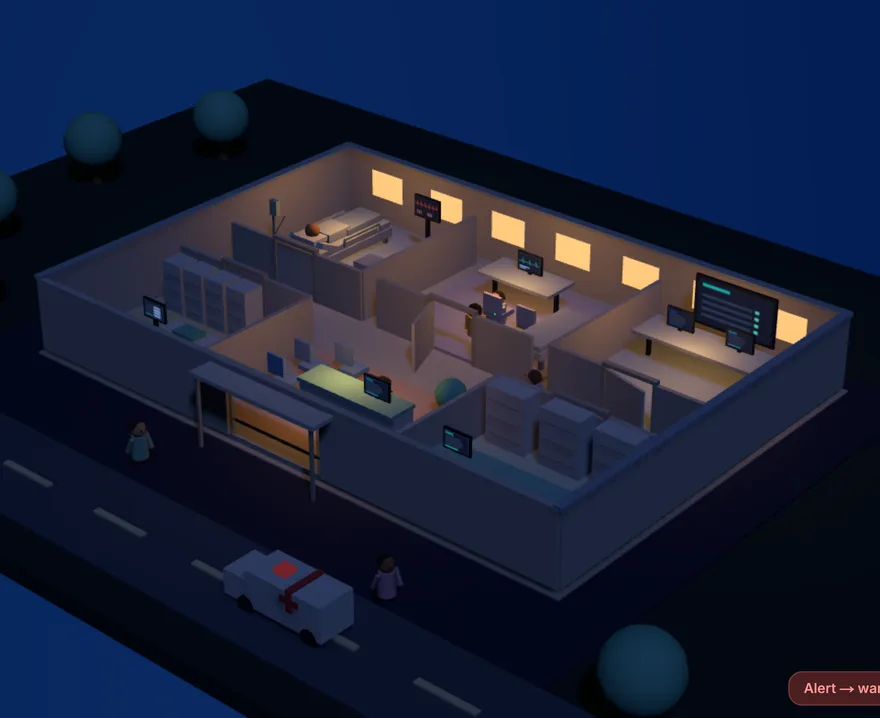
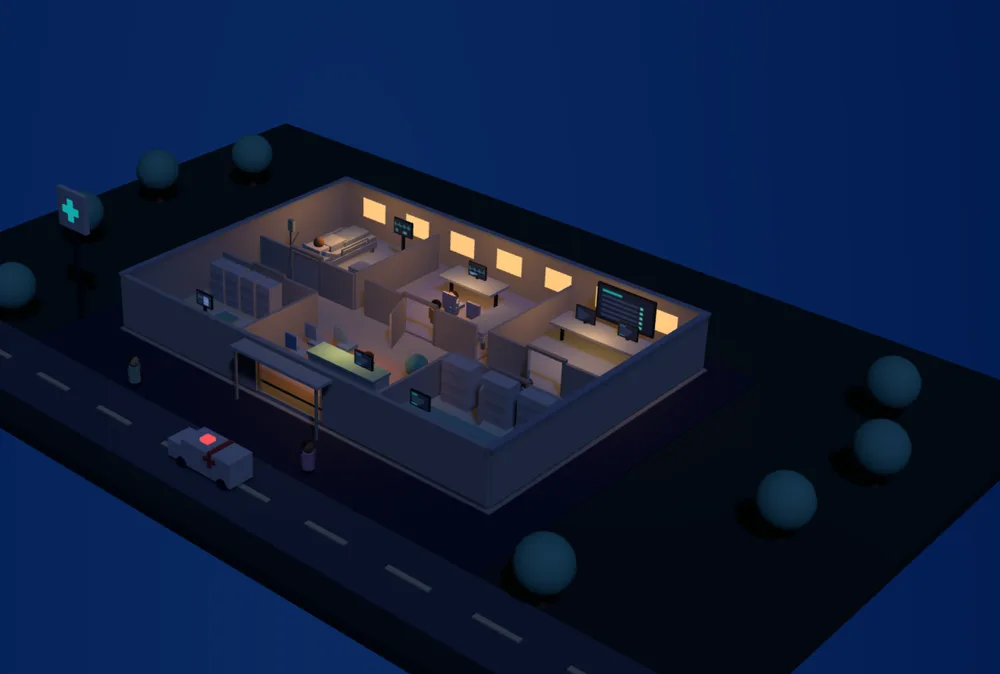
Give the building the whole frame, and let the camera actually travel
The hospital was in half a screen, and a hospital in half a screen is a
diagram of one. It fills the frame now and the words sit on top of it, the
way the demo this grew from had it. What keeps them apart is not a column but
the aim: every shot targets a point to the *left* of its subject, which slides
the subject right without changing the angle it is seen from — and the angle
is what makes the building read as a building. Under the text is a gradient
that fades out before the middle of the screen; a panel would have cut the
scene in half again.

The camera travels between stops now instead of jumping to the nearest one.
That snapping is what made this feel steppy: the target changed the instant
the scroll crossed a midpoint, and the damping then chased it, so the camera
was always either sitting still or catching up — never simply moving with the
page. It interpolates between the two stops the reader is between, on a blend
that holds at each end and glides through the middle, so a stop still settles
on its room rather than drifting past it. Damping stays, but only to take the
jitter out of the scroll.

The spring under it is overdamped now — a ratio of about two and a half — so
it glides to the scroll position and never rings. An underdamped spring on a
camera reads as a wobble at the end of every move, and it was also what used
to push progress below zero and index off the end of the stop list.

Room shots stand further back to suit the wider frame, and the still was
[…]

diff --git a/client/src/components/landing/Hero.tsx b/client/src/components/landing/Hero.tsx
@@ -183,7 +183,7 @@ function Words({
   const y = useTransform(progress, range, [12, 0, 0, -12]);
 
   return (
-    <motion.div style={{ opacity, y }} className="absolute inset-x-0 top-1/2 max-w-xl -translate-y-1/2">
+    <motion.div style={{ opacity, y }} className="pointer-events-none absolute inset-x-0 top-1/2 -translate-y-1/2">
       <span className="inline-flex items-center gap-2 rounded-full border border-white/14 bg-white/[0.06] px-3 py-1.5 text-xs font-semibold text-[#AFC9E8]">
         <span className="h-1.5 w-1.5 rounded-full bg-[#14C4C1]" />
         {tr(...stop.chip)}
@@ -245,10 +245,20 @@ export function Hero({
   }, []);
 
   const { scrollYProgress } = useScroll({ target: track, offset: ["start start", "end end"] });
+  /**
+   * The scroll, smoothed.
+   *
+   * Overdamped on purpose — the damping ratio here is about two and a half, so
+   * the value glides to the scroll position and never overshoots it. Raw scroll
+   * is mechanical and an underdamped spring rings, which on a camera reads as a
+   * wobble at the end of every move. It also means progress cannot stray below
+   * zero or past one, which an overshooting spring did, and which used to index
+   * off the end of the stop list.
+   */
   const progress = useSpring(scrollYProgress, {
-    stiffness: 80,
-    damping: 26,
-    mass: 0.45,
+    stiffness: 70,
+    damping: 30,
+    mass: 0.5,
     restDelta: 0.0001,
   });
 
@@ -342,11 +352,55 @@ export function Hero({
       style={{ background: "radial-gradient(120% 90% at 50% 10%, #0A2A63 0%, #00194D 48%, #040B1F 100%)" }}
     >
       <div className="sticky top-0 h-screen overflow-hidden">
-        {/* Two columns. The words never sit on the building, and the building
-            is never hidden by the words — which is the whole reason this
-            section can afford to be a hospital rather than a diagram. */}
-        <div className="relative mx-auto grid h-full max-w-7xl grid-cols-[minmax(0,26rem)_1fr] items-center gap-8 px-6 xl:gap-12">
-          <div className="relative z-10 h-[30rem]">
+        {/* The building fills the frame, and the words sit on it.
+            ------------------------------------------------------
+            It was two columns, which kept them apart but also kept the
+            hospital in half a screen — and a hospital in half a screen is a
+            diagram of one. Full bleed, with the camera aimed so the building
+            sits right of centre and the left third stays clear, gives the
+            scene the room it needs and the words somewhere to stand. */}
+        <div className="absolute inset-0">
+          {stillOnly ? (
+            <div className="flex h-full items-center justify-end pr-[4vw]">
+              <Image
+                src={dark ? "/hero/hospital-dark.webp" : "/hero/hospital-light.webp"}
+                alt={tr(
+                  "The hospital: reception, records, ward, consultation, pharmacy and administration around a corridor.",
+                  "Hospital: corridor ke ird-gird reception, records, ward, consultation, pharmacy aur administration.",
+                )}
+                width={880}
+                height={718}
+                className="w-[min(62vw,60rem)] rounded-2xl"
+              />
+            </div>
+          ) : (
+            <HospitalScene
+              progress={scenePosition}
+              stops={STOPS.length}
+              onStop={setStop}
+              onHover={setHovered}
+              onAlert={setCritical}
+              onRoomClick={(room) => goToStop(room.id)}
+              onUnsupported={() => setStillOnly(true)}
+              dark={dark}
+            />
+          )}
+        </div>
+
+        {/* Enough ground under the words to read them on, and no more. A panel
+            would cut the building in half again; a gradient that fades out
+            before the middle of the screen does not. */}
+        <div
+          aria-hidden
+          className="pointer-events-none absolute inset-y-0 left-0 w-[62%]"
+          style={{
+            background:
+              "linear-gradient(90deg, rgba(4,11,31,0.92) 0%, rgba(4,11,31,0.78) 34%, rgba(4,11,31,0) 100%)",
+          }}
+        />
+
+        <div className="pointer-events-none absolute inset-y-0 left-0 flex w-[min(30rem,46vw)] items-center px-6 lg:pl-[5vw]">
+          <div className="relative h-[30rem] w-full">
             {STOPS.map((item, i) => (
               <Words
                 key={item.label[0]}
@@ -392,32 +446,6 @@ export function Hero({
                 )}
               </Words>
             ))}
-          </div>
-
-          <div className="relative flex h-full items-center">
-            {stillOnly ? (
-              <Image
-                src={dark ? "/hero/hospital-dark.webp" : "/hero/hospital-light.webp"}
-                alt={tr(
-                  "The hospital: reception, records, ward, consultation, pharmacy and administration around a corridor.",
-                  "Hospital: corridor ke ird-gird reception, records, ward, consultation, pharmacy aur administration.",
-                )}
-                width={880}
-                height={718}
-                className="w-full rounded-2xl"
-              />
-            ) : (
-              <HospitalScene
-                progress={scenePosition}
-                stops={STOPS.length}
-                onStop={setStop}
-                onHover={setHovered}
-                onAlert={setCritical}
-                onRoomClick={(room) => goToStop(room.id)}
-                onUnsupported={() => setStillOnly(true)}
-                dark={dark}
-              />
-            )}
           </div>
         </div>
 

diff --git a/client/src/components/landing/hospital/HospitalScene.tsx b/client/src/components/landing/hospital/HospitalScene.tsx
@@ -34,8 +34,29 @@ import * as THREE from "three";
 import { buildHospital, person, type Person } from "./build";
 import { NODES, ROOMS, walkThrough, type Room } from "./plan";
 
-/** Where the camera stands for each stop, and what it looks at. */
-const OVERVIEW = { eye: [19.5, 15.6, 20.5], look: [-0.2, 0.7, -0.3] } as const;
+/**
+ * Where the camera stands for each stop, and what it looks at.
+ *
+ * The words live over the left third of the screen, so every shot is aimed to
+ * put the building right of centre. Moving the *look-at* does that rather than
+ * moving the camera: shifting the target along screen-left slides the subject
+ * screen-right without changing the angle you see it from, which is the part
+ * that makes the building read as a building.
+ *
+ * Screen-right, from this fixed three-quarter angle, is roughly +x −z. So the
+ * offset below is its opposite, scaled by how far the subject has to clear the
+ * text.
+ */
+const SHIFT_RIGHT = { x: -0.76, z: 0.65 };
+
+function aimed(eye: readonly [number, number, number], at: readonly [number, number, number], clear: number) {
+  return {
+    eye,
+    look: [at[0] + SHIFT_RIGHT.x * clear, at[1], at[2] + SHIFT_RIGHT.z * clear] as const,
+  };
+}
+
+const OVERVIEW = aimed([22.5, 18.2, 23.5], [0.2, 0.9, -0.9], 2.2);
 
 /**
  * Close enough to read the room, far enough to see it *is* a room.
@@ -46,19 +67,18 @@ const OVERVIEW = { eye: [19.5, 15.6, 20.5], look: [-0.2, 0.7, -0.3] } as const;
  * are both in shot, which is the whole point of having built them.
  */
 function roomShot(room: Room) {
-  return {
-    eye: [room.x + 5.6, 6.1, room.z + 6.6],
-    look: [room.x - 0.2, 0.45, room.z + 0.1],
-  } as const;
+  return aimed([room.x + 7.4, 8, room.z + 8.6], [room.x - 0.2, 0.55, room.z + 0.1], 2);
 }
 
 export const STOPS = [
   OVERVIEW,
   ...ROOMS.map(roomShot),
-  { eye: [18.5, 15, 19.5], look: [-0.2, 0.7, 0] } as const,
+  aimed([21.5, 17.4, 22.5], [0.2, 0.9, -0.6], 2.2),
 ];
 
 const clamp01 = (v: number) => (v < 0 ? 0 : v > 1 ? 1 : v);
+/** Eases both ends of a 0..1 run, so nothing starts or stops abruptly. */
+const smoothstep = (t: number) => t * t * (3 - 2 * t);
 const damp = (a: number, b: number, lambda: number, dt: number) =>
   a + (b - a) * (1 - Math.exp(-lambda * dt));
 
@@ -326,8 +346,8 @@ export function HospitalScene({
     host.addEventListener("click", onClick);
 
     /* ---- the loop ------------------------------------------------------------ */
-    const eye = new THREE.Vector3(...OVERVIEW.eye);
-    const look = new THREE.Vector3(...OVERVIEW.look);
+    const eye = new THREE.Vector3(...STOPS[0].eye);
+    const look = new THREE.Vector3(...STOPS[0].look);
     let darkness = night.current ? 1 : 0;
     let reportedStop = -1;
 
@@ -388,17 +408,30 @@ export function HospitalScene({
         reportedStop = stop;
         handlers.current.onStop(stop);
       }
-      const shot = STOPS[Math.min(STOPS.length - 1, stop)];
 
-      /* -- camera -- */
-      const k = 1 - Math.exp(-2.2 * dt);
-      eye.x = damp(eye.x, shot.eye[0], 2.2, dt);
-      eye.y = damp(eye.y, shot.eye[1], 2.2, dt);
-      eye.z = damp(eye.z, shot.eye[2], 2.2, dt);
-      look.x = damp(look.x, shot.look[0], 2.2, dt);
-      look.y = damp(look.y, shot.look[1], 2.2, dt);
-      look.z = damp(look.z, shot.look[2], 2.2, dt);
-      void k;
+      /* -- camera --
+         The shot is interpolated between the two stops the reader is between,
+         not snapped to the nearer one. Snapping is what made this feel steppy:
+         the target jumped the moment the scroll crossed a midpoint, and the
+         damping then chased it, so the camera was always either still or
+         catching up — never simply moving with the page.
+
+         The blend holds at each end and travels in the middle, so a stop still
+         *settles* on its room instead of drifting through it. Damping stays on
+         top, but only to take the jitter out of the scroll. */
+      const leg = Math.min(STOPS.length - 2, Math.floor(position));
+      const along = clamp01(position - leg);
+      const glide = smoothstep(clamp01((along - 0.16) / 0.68));
+      const a = STOPS[leg];
+      const b = STOPS[leg + 1];
+      const blend = (from: number, to: number) => from + (to - from) * glide;
+
+      eye.x = damp(eye.x, blend(a.eye[0], b.eye[0]), 5.5, dt);
+      eye.y = damp(eye.y, blend(a.eye[1], b.eye[1]), 5.5, dt);
+      eye.z = damp(eye.z, blend(a.eye[2], b.eye[2]), 5.5, dt);
+      look.x = damp(look.x, blend(a.look[0], b.look[0]), 5.5, dt);
+      look.y = damp(look.y, blend(a.look[1], b.look[1]), 5.5, dt);
+      look.z = damp(look.z, blend(a.look[2], b.look[2]), 5.5, dt);
       camera.position.copy(eye);
       if (pointerLive) {
         camera.position.x += pointer.x * 0.35;
